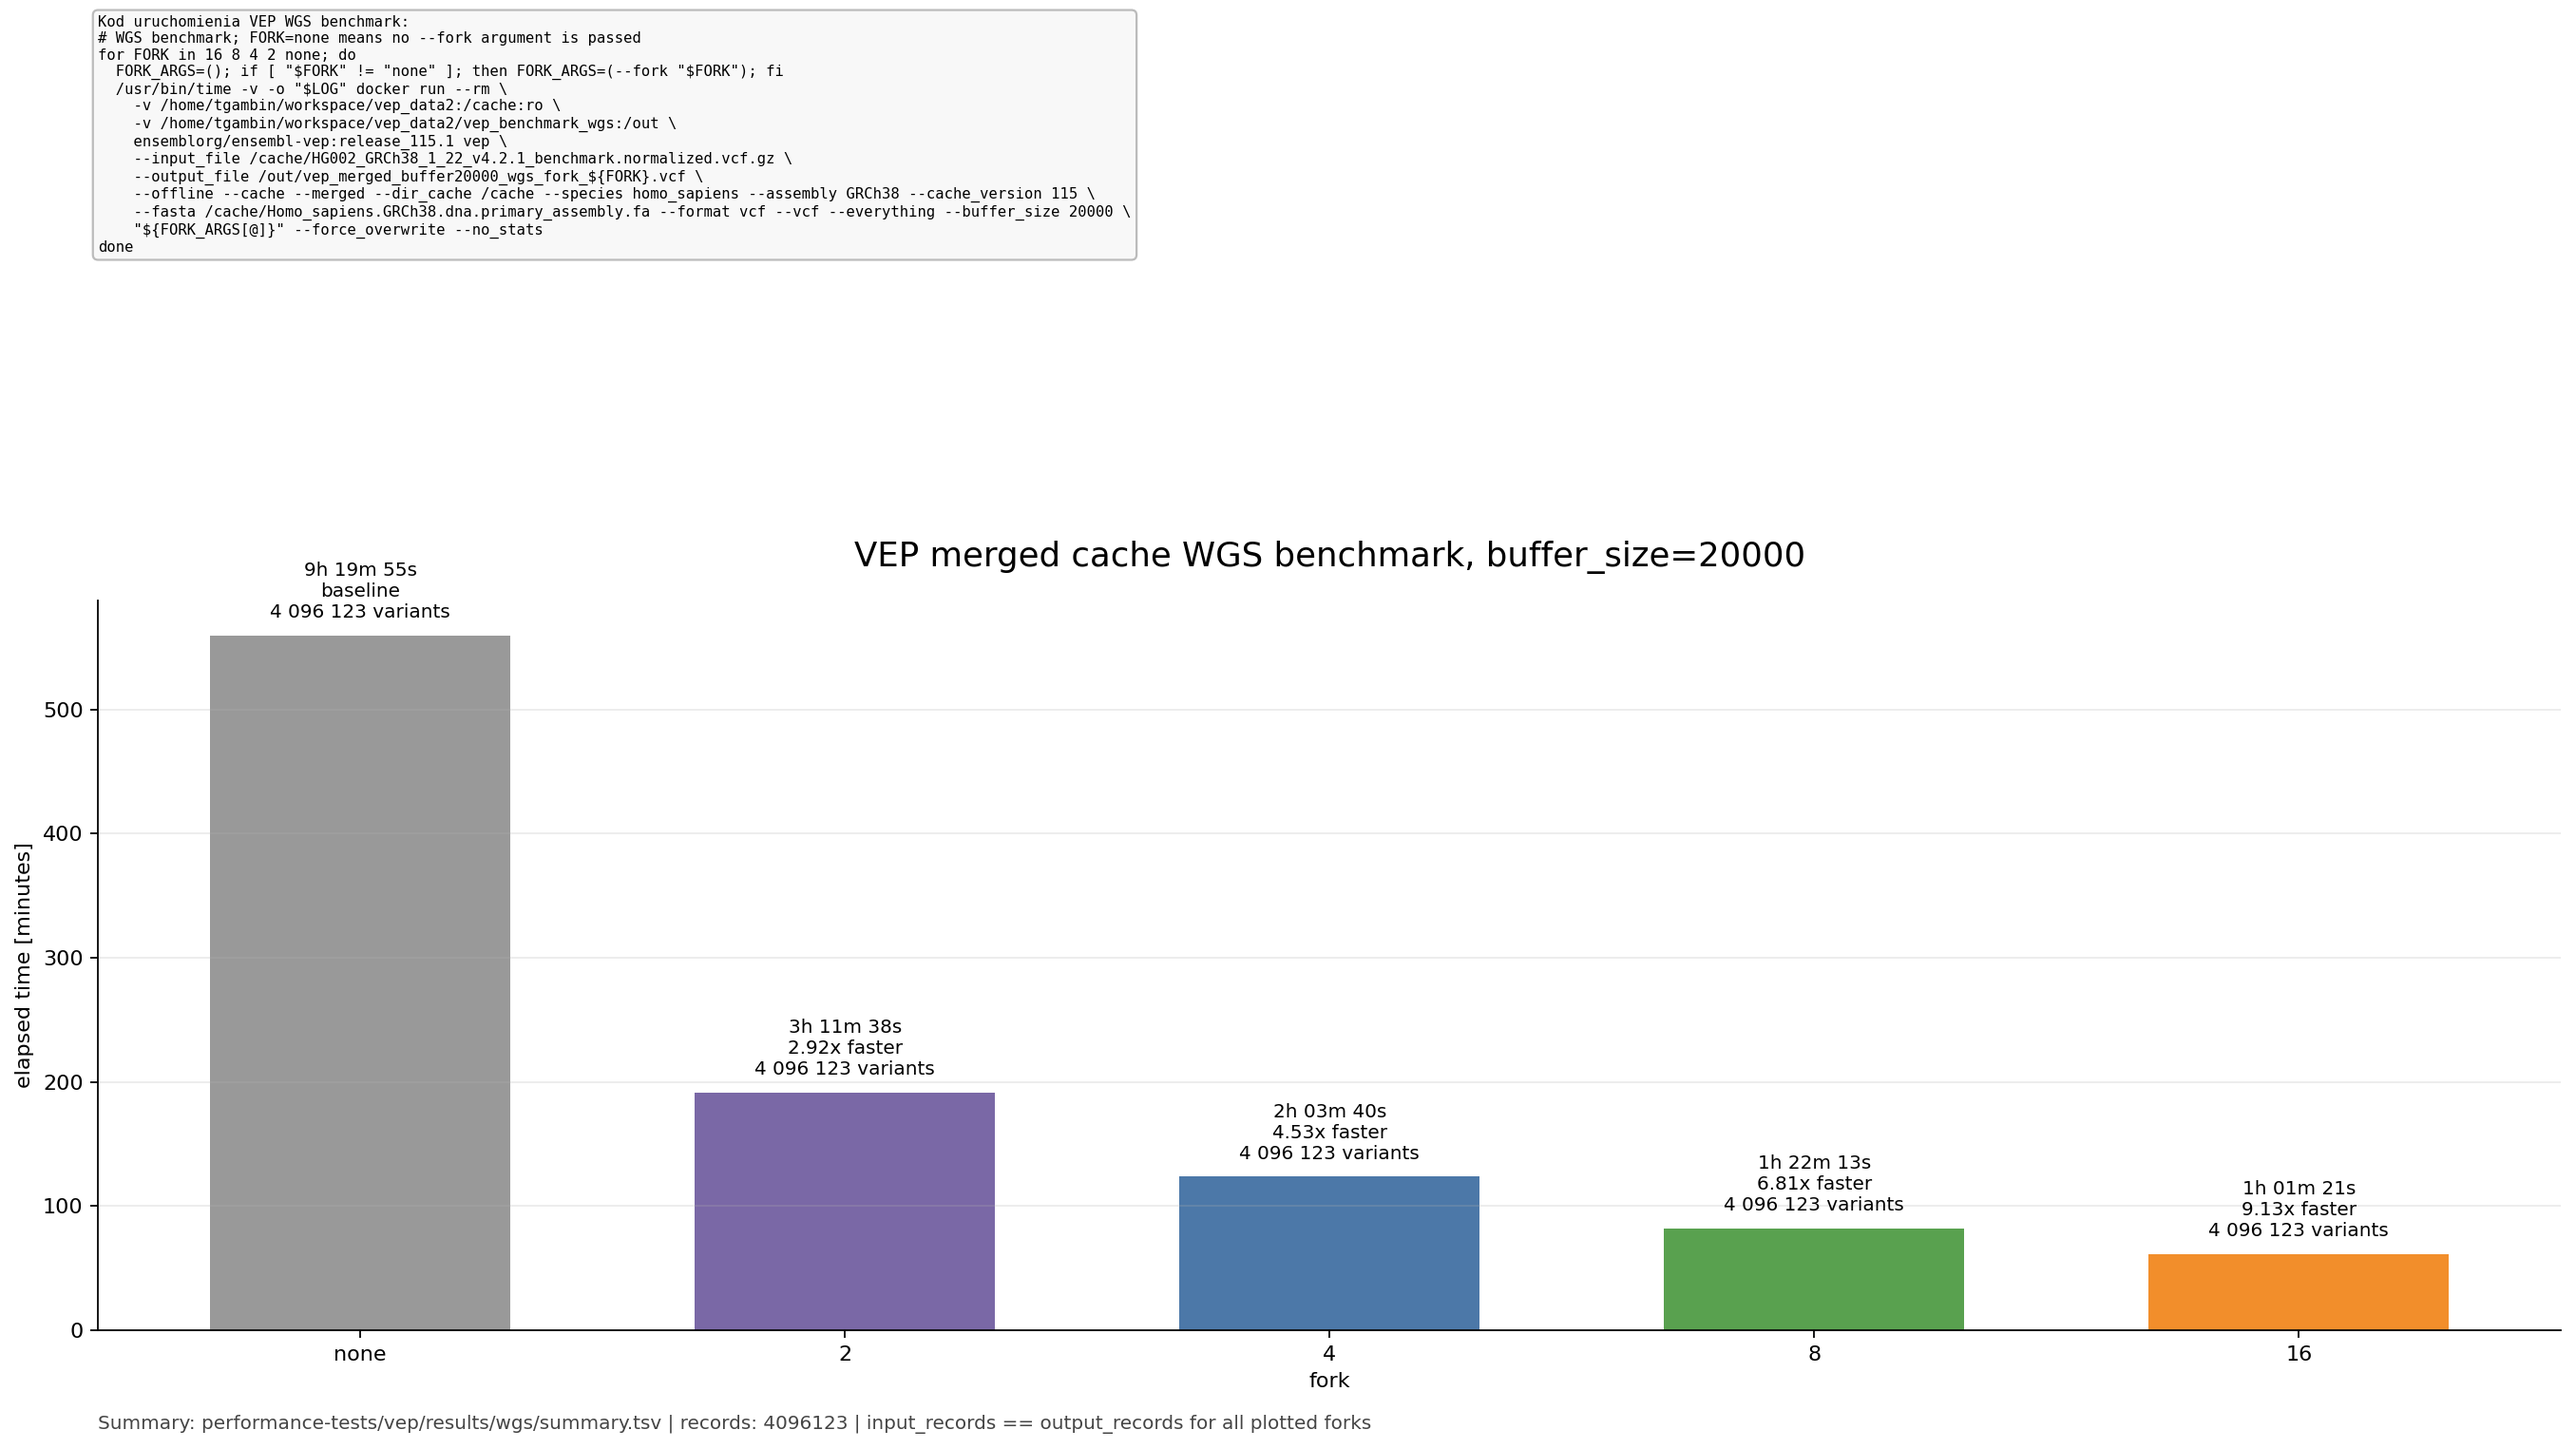
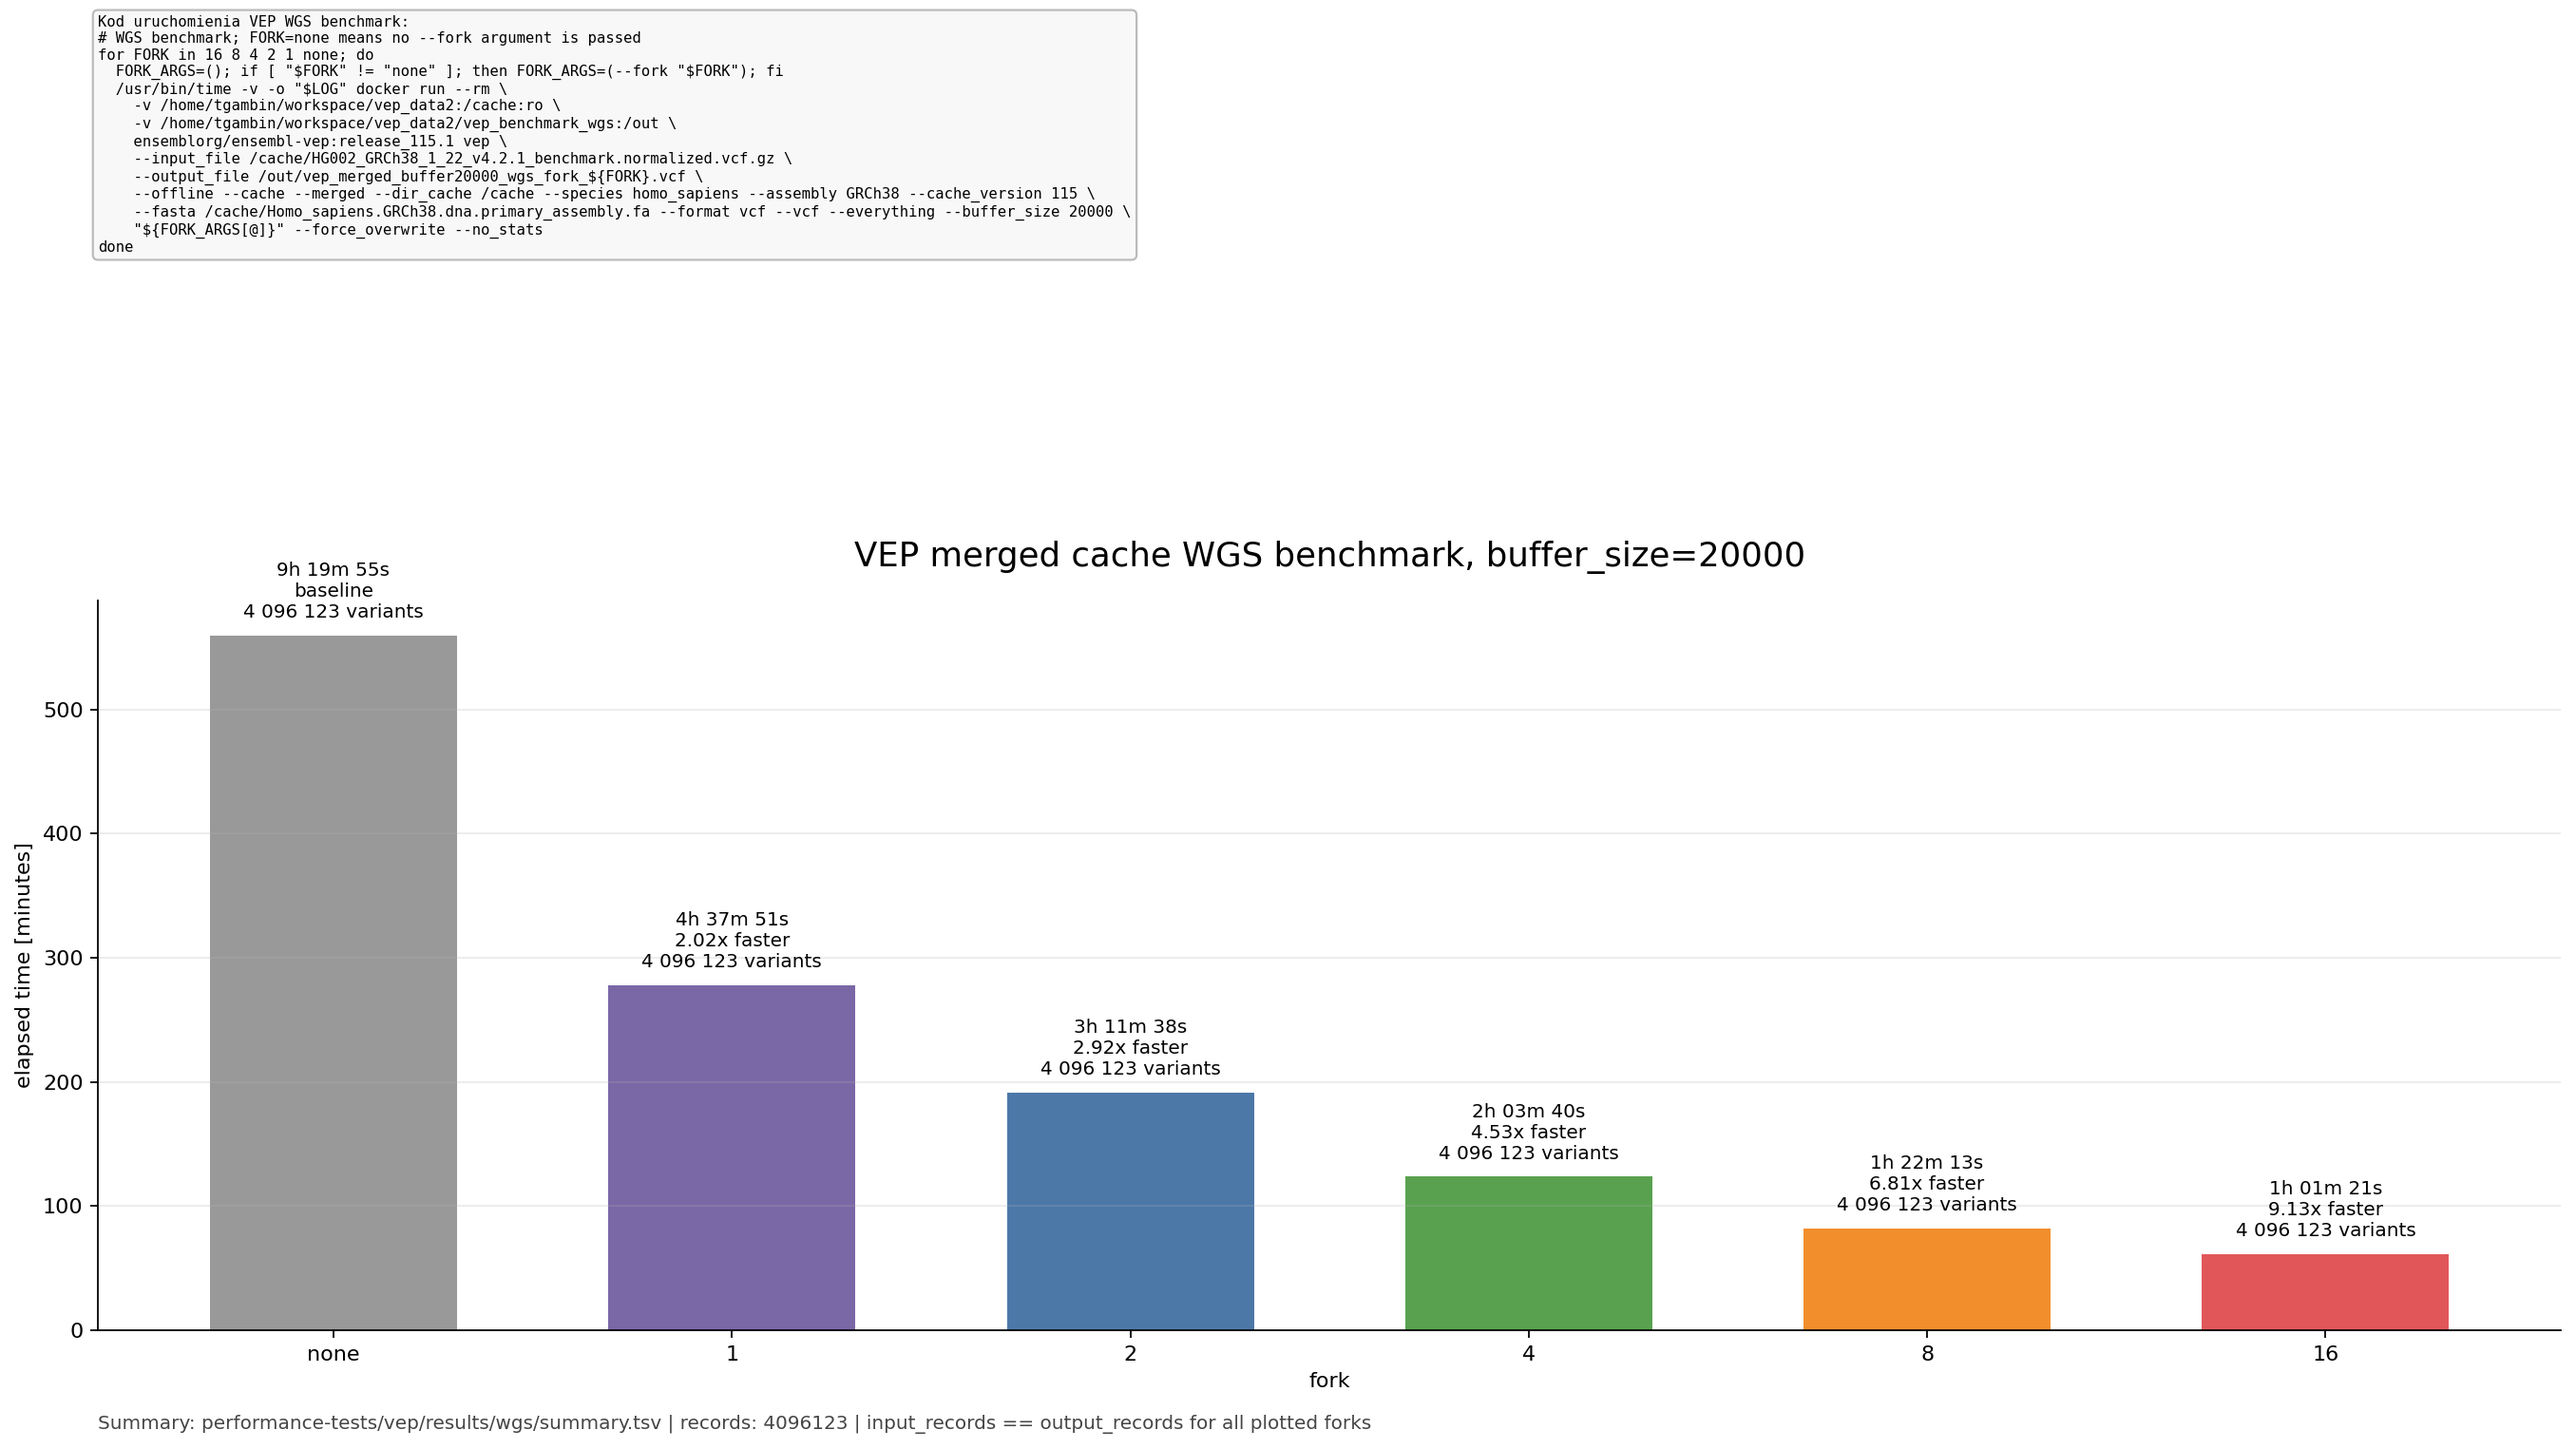
Add VEP fork 1 benchmark result

Changed region(s): [[0.1549, 0.4315, 0.8056, 0.9246], [0.8366, 0.8013, 0.9605, 0.9246], [0.093, 0.3698, 0.1549, 0.4315]]

diff --git a/performance-tests/vep/scripts/plot_vep_scalability.py b/performance-tests/vep/scripts/plot_vep_scalability.py
@@ -10,7 +10,7 @@ import matplotlib.pyplot as plt
 
 COMMAND_TEXT = """Kod uruchomienia VEP WGS benchmark:
 # WGS benchmark; FORK=none means no --fork argument is passed
-for FORK in 16 8 4 2 none; do
+for FORK in 16 8 4 2 1 none; do
   FORK_ARGS=(); if [ "$FORK" != "none" ]; then FORK_ARGS=(--fork "$FORK"); fi
   /usr/bin/time -v -o "$LOG" docker run --rm \\
     -v /home/tgambin/workspace/vep_data2:/cache:ro \\

diff --git a/performance-tests/vep/README.md b/performance-tests/vep/README.md
@@ -11,7 +11,7 @@ FASTA, Docker image, and `--buffer_size 20000` fixed.
 - `scripts/normalize_vcf.sh` - decompose and normalize the benchmark VCF with `bcftools norm`.
 - `scripts/run_vep_scalability_benchmark.sh` - run VEP for one or more fork settings and append `summary.tsv`.
 - `scripts/plot_vep_scalability.py` - regenerate the timing plot from a summary table.
-- `results/wgs/` - full WGS raw logs and summary, excluding the still-running `fork=1` run.
+- `results/wgs/` - full WGS raw logs and summary.
 - `results/100k/` - 100k-variant compressed-input raw logs and summary.
 - `results/100k-uncompressed/` - 100k-variant uncompressed-input comparison logs.
 - `results/figures/` - generated PNG plots.
@@ -47,7 +47,7 @@ performance-tests/vep/scripts/run_vep_scalability_benchmark.sh
 Run selected fork values only:
 
 ```bash
-performance-tests/vep/scripts/run_vep_scalability_benchmark.sh none 2 4 8 16
+performance-tests/vep/scripts/run_vep_scalability_benchmark.sh none 1 2 4 8 16
 ```
 
 Regenerate the WGS plot:
@@ -67,10 +67,12 @@ completed fork setting, `input_records == output_records`.
 | fork | elapsed | speedup vs none |
 |---:|---:|---:|
 | none | 9:19:55 | 1.00x |
+| 1 | 4:37:51 | 2.02x |
 | 2 | 3:11:38 | 2.92x |
 | 4 | 2:03:40 | 4.53x |
 | 8 | 1:22:13 | 6.81x |
 | 16 | 1:01:21 | 9.13x |
 
-Note: `fork=1` was still running when this preliminary branch was prepared, so
-it is intentionally absent from the committed WGS summary and plot.
+Note: `fork=1` elapsed time was recovered from Docker event timestamps because
+the original `/usr/bin/time` parent session was interrupted. Its record count
+matches the input, but `max_rss_kb` is recorded as `NA`.
